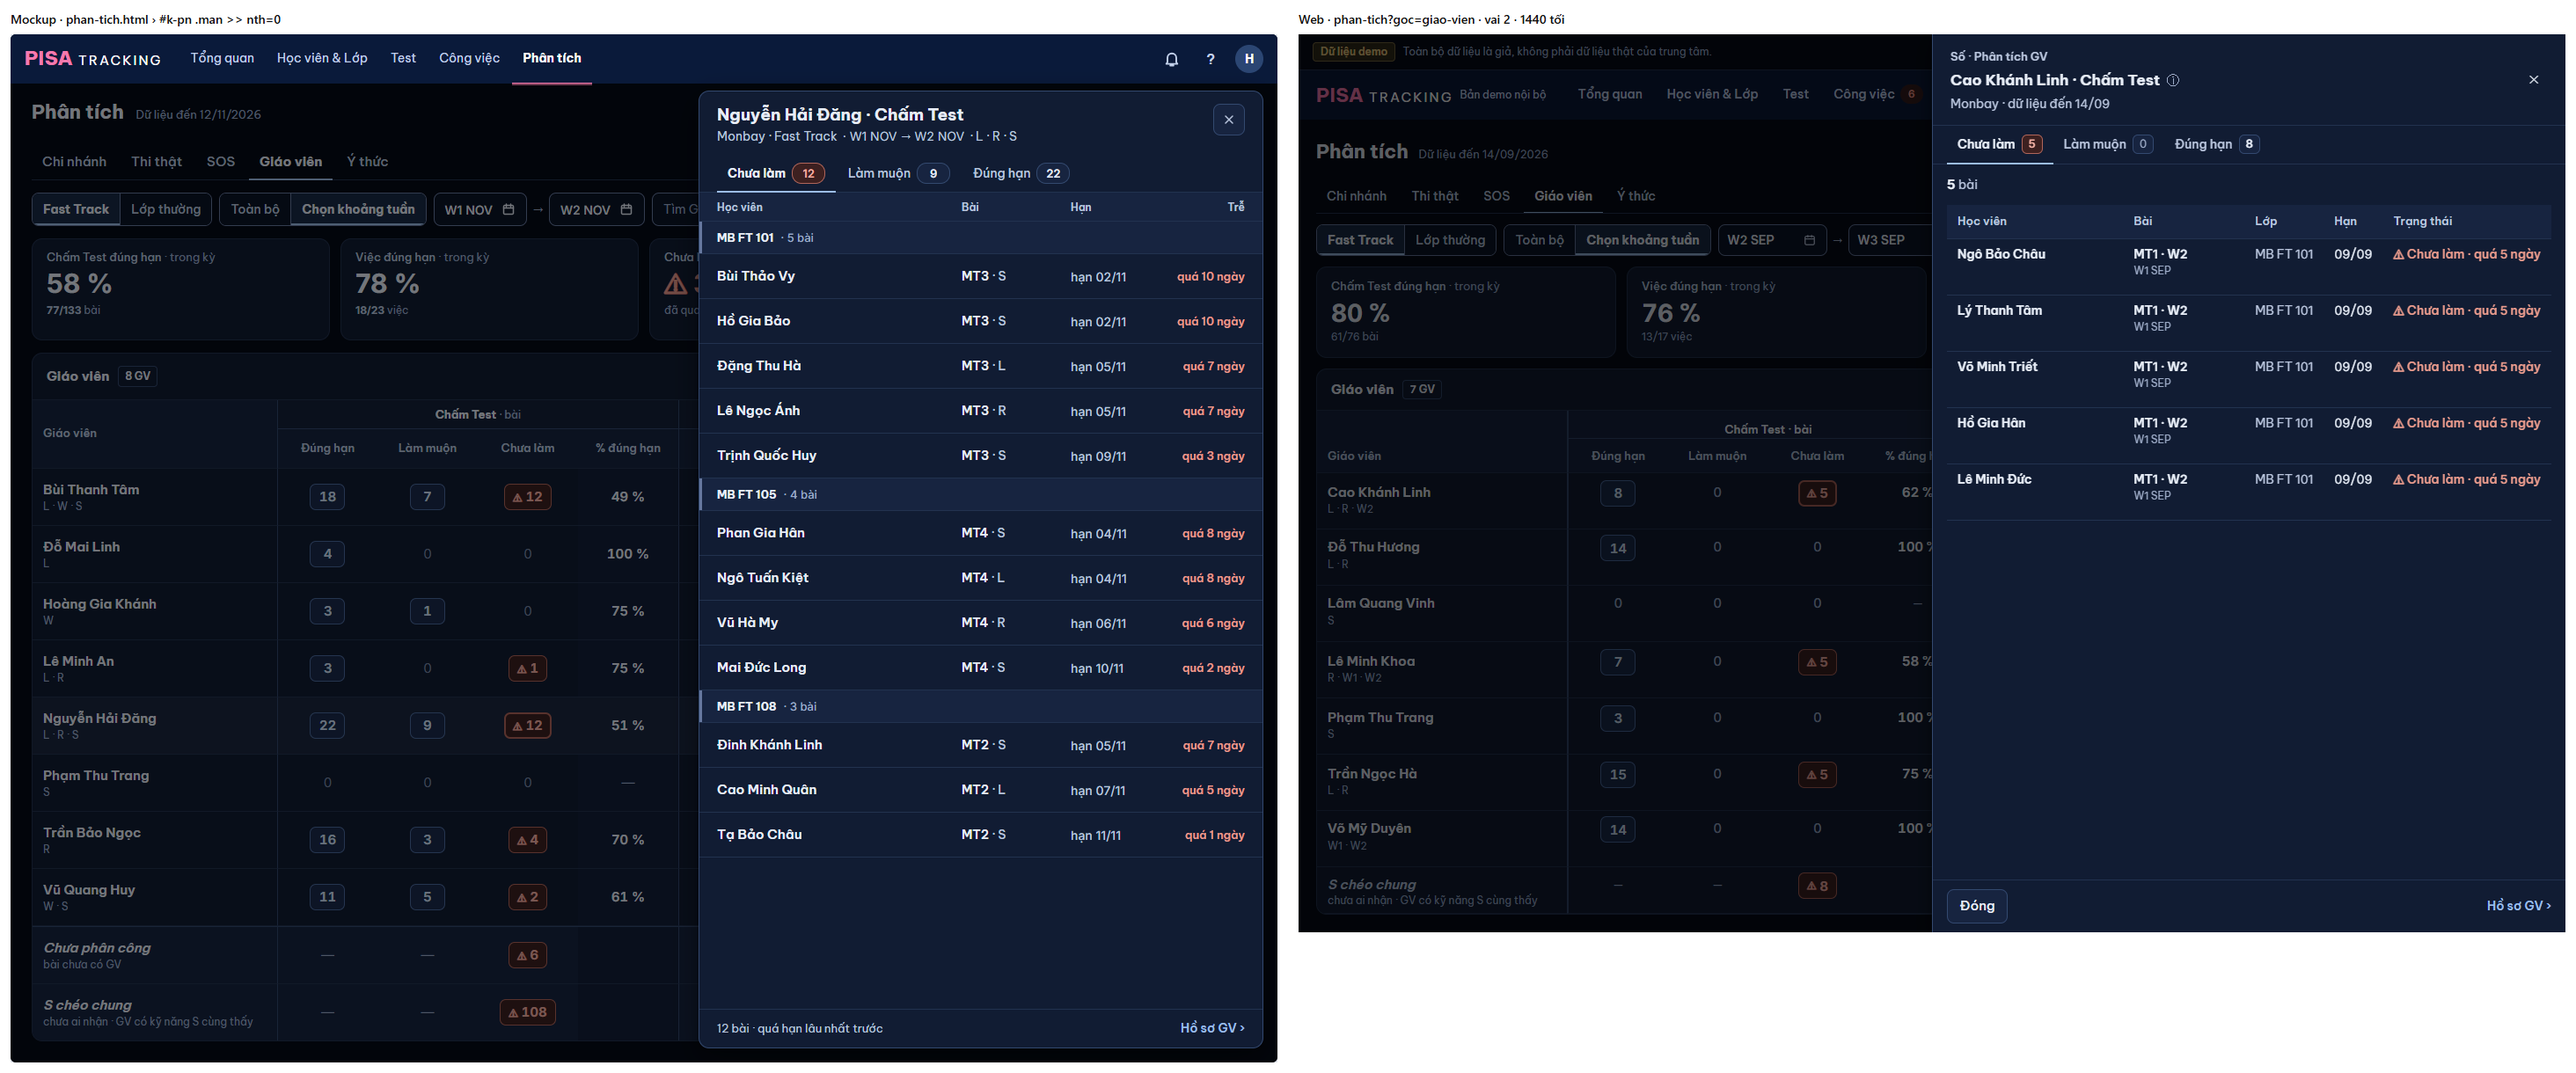
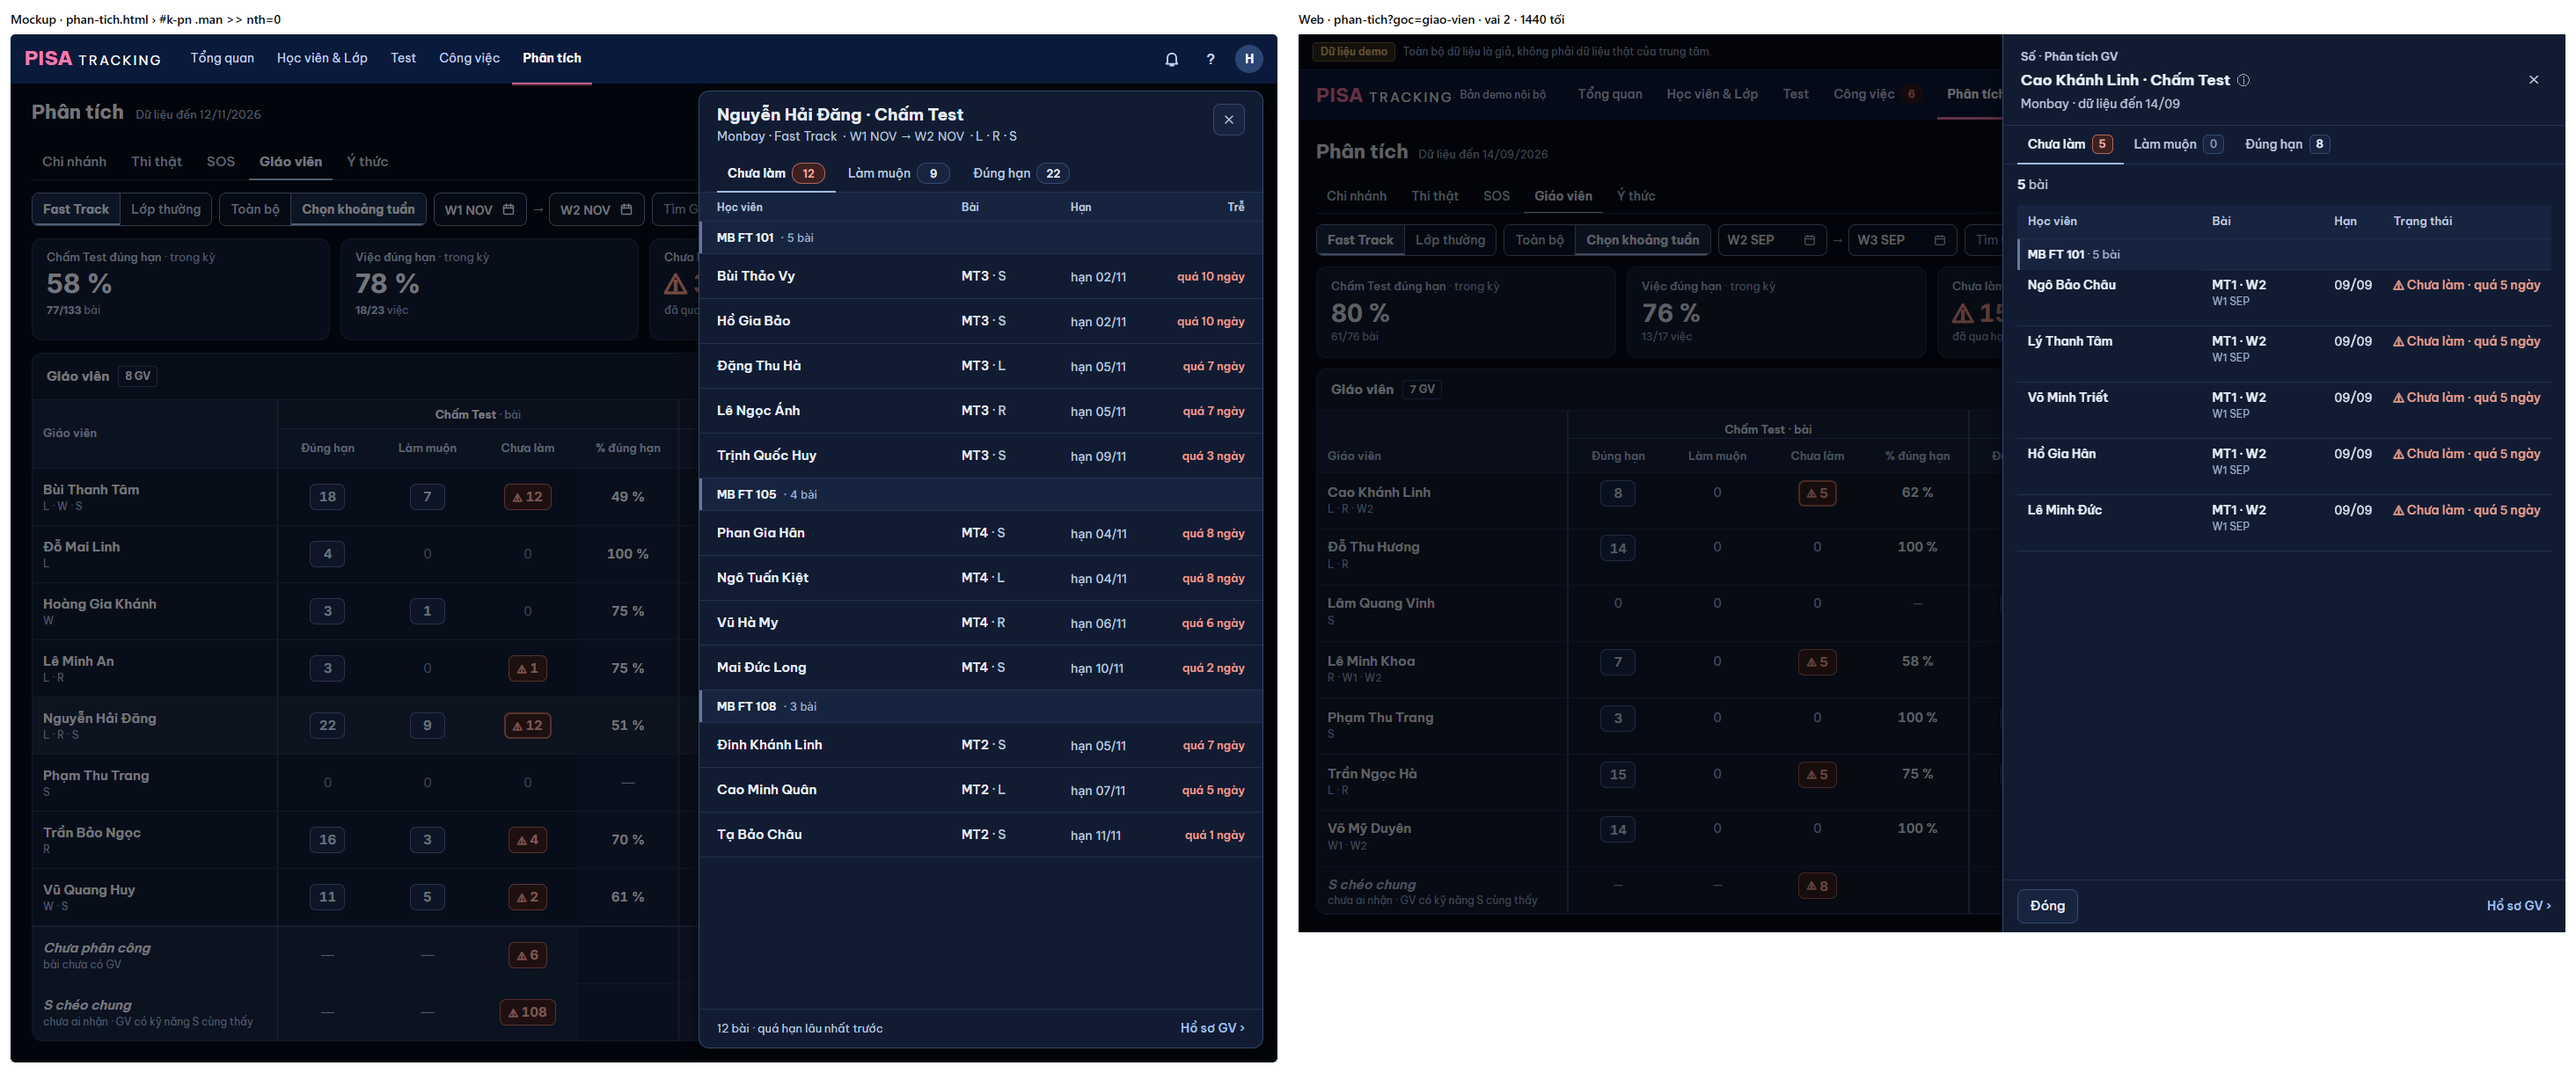
PT-a (PTA rà #1486): panel bài chấm nhóm theo lớp (nhóm theo bài quá hạn lâu nhất), bỏ cột Lớp, bậc rộng 640 (rong="so"); thẻ 375 lấy đúng cột Bài

Changed region(s): [[0.7459, 0.0311, 0.9945, 0.8721]]

diff --git a/web/src/ui/BangLuotPanel.tsx b/web/src/ui/BangLuotPanel.tsx
@@ -461,11 +461,27 @@ export function BangLuotPanel({ tieuDe, loai = t('Số · Test + SOS'), data, lo
   const phuVc = (h: HVc, c: DinhNghiaCot) => (c.key === 'viec'
     ? ([!laBai && nhieuLoai ? dich(TAB_VIEC_HAN_LABEL[h.tab]) : null, h.phu ? dich(h.phu) : null, h.chiNhanh ?? null, h.pcNhapSau ? t('phân công nhập sau') : null].filter(Boolean).join(' · ') || null)
     : c.key === 'han' ? (h.hanGoc ? t('hạn gốc {ngay}', { ngay: ddmm(h.hanGoc) }) : null) : c.key === 'tt' ? ngayLam(h) : null);
+  const COT_VIEC = cotVc.find((c) => c.key === 'viec')!;
+  /*
+   * PT-a (mockup v19 khung 2a, PTA rà #1486): panel BÀI chấm chia theo lớp ("MB FT 101 · 5 bài") — bỏ cột Lớp. Nhóm theo thứ tự xuất hiện: máy chủ đã xếp quá hạn
+   * lâu nhất trước → nhóm đầu là nhóm có bài quá hạn lâu nhất; trong nhóm giữ thứ tự đó. Dòng nhóm là dòng giả của `Bang` (`hang-nhom-lop`, không bấm).
+   */
+  type NhomLop = { nhomLop: string; n: number; id: string };
+  type DongVc = HVc | NhomLop;
+  const laNhom = (h: DongVc): h is NhomLop => 'nhomLop' in h;
+  const theoLop = (ds: HVc[]): DongVc[] => {
+    if (!laBai) return ds;
+    const m = new Map<string, HVc[]>();
+    for (const h of ds) { const k = h.lop?.ma ?? '—'; (m.get(k) ?? m.set(k, []).get(k)!).push(h); }
+    return [...m].flatMap(([lop, xs]): DongVc[] => [{ nhomLop: lop, n: xs.length, id: `nhom:${lop}` }, ...xs]);
+  };
+  const cotVcHien = laBai ? cotVc.filter((c) => c.key !== 'lop') : cotVc;
+  const nhanNhom = (h: NhomLop) => <span className="whitespace-nowrap text-[13px] font-bold text-[color:var(--text)]">{h.nhomLop} <span className="font-medium text-faint">· {t('{n} bài', { n: h.n })}</span></span>;
   const theVc = (h: HVc) => (
     <div className="grid gap-1">
-      <div className="flex items-baseline gap-2 text-[15px]">{oVc(h, cotVc[0])}<span className="ml-auto whitespace-nowrap text-[14px]">{ttVc(h)}</span></div>
+      <div className="flex items-baseline gap-2 text-[15px]">{oVc(h, COT_VIEC)}<span className="ml-auto whitespace-nowrap text-[14px]">{ttVc(h)}</span></div>
       {(h.em || h.lop) && <div className="text-[14px]">{h.em && lkHv(h.em.id, h.em.ten)}{h.em && h.lop && ' · '}{h.lop && lkLop(h.lop.id, h.lop.ma)}</div>}
-      <div className="text-[13px] text-dim">{t('Hạn')} {ddmm(h.han)}{h.hanGoc && <> ({t('hạn gốc {ngay}', { ngay: ddmm(h.hanGoc) })})</>}{h.ngayXong && <> · {ngayLam(h)}</>}{phuVc(h, cotVc[0]) && <> · {phuVc(h, cotVc[0])}</>}</div>
+      <div className="text-[13px] text-dim">{t('Hạn')} {ddmm(h.han)}{h.hanGoc && <> ({t('hạn gốc {ngay}', { ngay: ddmm(h.hanGoc) })})</>}{h.ngayXong && <> · {ngayLam(h)}</>}{phuVc(h, COT_VIEC) && <> · {phuVc(h, COT_VIEC)}</>}</div>
     </div>
   );
 
@@ -481,7 +497,7 @@ export function BangLuotPanel({ tieuDe, loai = t('Số · Test + SOS'), data, lo
     bt && data?.nguong != null ? t('đạt từ {n} % mỗi môn', { n: data.nguong }) : null, vpk && tatV.length ? t('mới nhất trước') : null,
     tg ? t('so mốc MT trước') : t('dữ liệu đến {ngay}', { ngay: ngay(homNay).slice(0, 5) }), tt && /^W[12]$/.test(knNhan ?? '') ? t('{kn} tính nửa W', { kn: knNhan! }) : null].filter(Boolean).join(' · ');
   return (
-    <KhungPanel tieuDe={tieuDe} rong={vk ? 'rong' : 'bang'} onDong={onDong} loai={loai} dau={{ dong2: [dong2],
+    <KhungPanel tieuDe={tieuDe} rong={vk && laBai ? 'so' : vk ? 'rong' : 'bang'} onDong={onDong} loai={loai} dau={{ dong2: [dong2],
       /* BO-CHU-THICH (chủ SP 07/11): "Cách tính" là ⓘ cuối dòng tiêu đề như `NganDanhSach` — không còn khối chữ cuối panel. */
       tieu: data?.cachTinh ? <><span className="min-w-0">{tieuDe}</span><NutLuat label={t('Cách tính')}>{dich(data.cachTinh)}</NutLuat></> : undefined }} chan={{ huy: { nhan: t('Đóng'), onClick: onDong },
         /* PT-a (mockup v19 khung 2a): panel sổ nghĩa vụ của một GV → "Hồ sơ GV ›" (đổi trang) ở chân. */
@@ -531,9 +547,11 @@ export function BangLuotPanel({ tieuDe, loai = t('Số · Test + SOS'), data, lo
                   return (
                     <section key={String(chung)} className="grid gap-1.5" aria-label={nhom ?? tieuDe}>
                       {nhom && <h3 className="m-0 text-[14px] font-semibold text-dim">{nhom} <span className="tabular-nums">{tatVc.filter((h) => !!h.sChung === chung).length}</span></h3>}
-                      {hang.length || !nhom ? <Bang deu day ten={nhom ? `${tieuDe} · ${nhom}` : tieuDe} cot={cotVc} hang={hang} khoa={(h) => h.id} oCua={oVc} phuCua={phuVc} khung={false} theRieng={theVc}
+                      {hang.length || !nhom ? <Bang<DongVc> deu day ten={nhom ? `${tieuDe} · ${nhom}` : tieuDe} cot={cotVcHien} hang={theoLop(hang)} khoa={(h) => h.id}
+                          oCua={(h, c) => (laNhom(h) ? (c.key === 'ten' ? nhanNhom(h) : null) : oVc(h, c))} phuCua={(h, c) => (laNhom(h) ? null : phuVc(h, c))}
+                          lopHang={(h) => (laNhom(h) ? 'hang-nhom-lop' : '')} khung={false} theRieng={(h) => (laNhom(h) ? nhanNhom(h) : theVc(h))}
                           /* KIEM-TAY-1011 (4): bấm cả dòng = bấm tên việc / bài (cùng `href`, mở đúng chỗ chấm / làm việc); link em, lớp giữ đích riêng. */
-                          onHang={(h) => navigate(h.href)} />
+                          onHang={(h) => { if (!laNhom(h)) navigate(h.href); }} />
                         : <p className="m-0 text-[14px] text-dim">{t('Không có bài chưa làm.')}</p>}
                     </section>
                   );

diff --git a/web/src/ui/KhungPanel.tsx b/web/src/ui/KhungPanel.tsx
@@ -188,7 +188,7 @@ export function KhungPanel({ tieuDe, hocVien, lop, rong: rongRieng, tabs, vungTa
   longTrong?: boolean;
   /** `toan`: lưới nhập hàng loạt nhiều cột (Thêm học viên) — rộng theo màn tới 1440px, không ép 10 cột vào ngăn hẹp. */
   /** `vua` 1180 px: panel bàn giao (mockup v11 — bảng hai cột không trải hết 1440). */
-  rong?: 'hep' | 'rong' | 'vua' | 'toan' | /** PT-PANEL (mockup v13 A1) + chủ SP 09/11: panel bảng số rộng 1040 — cột ngắn co theo nội dung, cột tên / việc thoải mái, không cắt chữ. */ 'bang';
+  rong?: 'hep' | 'rong' | 'vua' | 'toan' | /** PT-a (mockup v19 khung 2a): panel sổ nghĩa vụ bài chấm của một GV — 640. */ 'so' | /** PT-PANEL (mockup v13 A1) + chủ SP 09/11: panel bảng số rộng 1040 — cột ngắn co theo nội dung, cột tên / việc thoải mái, không cắt chữ. */ 'bang';
   tabs?: ReactNode; ngCanh?: ReactNode;
   /** DON-NHO-3 (TAB-A11Y): thân cuộn là vùng của `tabs` (`role="tabpanel"`, id = `panelId` của HangTab) — chỉ gắn thuộc tính, không bọc thêm (Khoi `first:` giữ khoảng cách). */
   vungTab?: { id: string; nhan: string };
@@ -446,7 +446,7 @@ export function KhungPanel({ tieuDe, hocVien, lop, rong: rongRieng, tabs, vungTa
     /* T21: `bottom` = phần bàn phím ảo che (`useBanPhim` — đo một nơi ở `App`, `ui/banPhim.ts`) — panel co lên, chân lưu nằm ngay trên bàn phím. */
     <div className={`fixed inset-0 !mt-0 ${z} flex justify-end`} style={{ bottom: 'var(--ban-phim, 0px)' }} role="dialog" aria-modal="true" aria-label={tieuDe}>
       <div className="absolute inset-0 bg-black/60" onClick={dong} />
-      <div ref={khung} tabIndex={-1} className={`relative flex h-full w-full flex-col rounded-none border-l shadow-2xl -outline-offset-2 ${rong === 'toan' ? 'max-w-[1440px]' : rong === 'vua' ? 'max-w-[1180px]' : rong === 'rong' ? 'sm:w-[720px]' : rong === 'bang' ? 'sm:w-[1040px] sm:max-w-full' : 'sm:w-[480px]'}`}
+      <div ref={khung} tabIndex={-1} className={`relative flex h-full w-full flex-col rounded-none border-l shadow-2xl -outline-offset-2 ${rong === 'toan' ? 'max-w-[1440px]' : rong === 'vua' ? 'max-w-[1180px]' : rong === 'rong' ? 'sm:w-[720px]' : rong === 'bang' ? 'sm:w-[1040px] sm:max-w-full' : rong === 'so' ? 'sm:w-[640px]' : 'sm:w-[480px]'}`}
         style={{ background: 'var(--surface)', borderColor: 'var(--line-strong)' }}>
         {voi(than)}
       </div>

diff --git a/web/src/index.css b/web/src/index.css
@@ -1248,6 +1248,11 @@
 /* Số lớn thẻ chỉ số (`DaiChiSo` `.chi-so-gt`): cùng hộp, ôm cỡ số. */
 .o-so-hop :is(.chi-so-gt .so-bam, .so-bam.so-chinh) { height: auto; padding: 2px 10px 3px; border-radius: 9px; font-weight: 700; line-height: 1.2; }
 /* Cặp hộp % + phân số mờ (`CapSo`): lưới hai cột — hộp căn phải, phân số căn trái, mọi dòng thẳng nhau. */
+/* PT-a (mockup v19 khung 2a): dòng nhóm lớp trong panel bài chấm (`BangLuotPanel`) — nền hàng lớn, vạch trái, chữ tràn qua ô trống bên phải, không bấm. */
+.bang tr.hang-nhom-lop { background: var(--hang-lon-bg); cursor: default; }
+.bang tr.hang-nhom-lop > td { height: 34px; padding-top: 0; padding-bottom: 0; background: transparent !important; background-image: none !important; }
+.bang tr.hang-nhom-lop > td:first-child { overflow: visible; box-shadow: inset 3px 0 0 var(--hang-lon-vach); }
+article.hang-nhom-lop { background: var(--hang-lon-bg); box-shadow: inset 3px 0 0 var(--hang-lon-vach); padding-top: 6px; padding-bottom: 6px; }
 .cap-so { display: inline-grid; grid-template-columns: 1fr 1fr; align-items: center; gap: 6px; width: 100%; }
 .cap-so > :first-child { justify-self: end; }
 .cap-so > :last-child { justify-self: start; font-size: 13px; font-weight: 500; color: var(--text-faint); font-variant-numeric: tabular-nums; white-space: nowrap; }

diff --git a/server/src/tests/prKiemTay1011.tests.ts b/server/src/tests/prKiemTay1011.tests.ts
@@ -64,7 +64,8 @@ export async function runPrKiemTay1011Tests(t: YThucTestKit) {
     const hop = docSach('web/src/modules/fasttrack/HopNhapDiem.tsx');
     assert(/cell\.noShow\?\.state === 'khong-du-thi'/.test(hop) && /boKhongDuThi && !daLuu/.test(hop), 'hộp thiếu Bỏ vắng cho ô Không dự thi');
     assert(/r\?\.boKhongDuThi[\s\S]{0,400}Hoàn tác/.test(docSach('web/src/modules/fasttrack/ScoreEntry.tsx')), 'thiếu toast Đã bỏ vắng · Hoàn tác');
-    assert(/onHang=\{\(h\) => navigate\(h\.href\)\}/.test(docSach('web/src/ui/BangLuotPanel.tsx')), 'hàng sổ nghĩa vụ không bấm được');
+    /* PT-a (mockup v19 khung 2a): dòng nhóm lớp không bấm — hàng bài / việc vẫn mở `href`. */
+    assert(/onHang=\{\(h\) => \{ if \(!laNhom\(h\)\) navigate\(h\.href\); \}\}/.test(docSach('web/src/ui/BangLuotPanel.tsx')), 'hàng sổ nghĩa vụ không bấm được');
     assert(/tuConTuongTac/.test(docSach('web/src/ui/Bang.tsx')), 'Bang: bấm link trong hàng sẽ mở hàng lần nữa');
     assert(!/<details className="contents">/.test(docSach('web/src/modules/test/KeHoachTestTab.tsx')), 'Lọc 375 còn details.contents');
   });

diff --git a/docs/anh/pt-a/khop-khac.md b/docs/anh/pt-a/khop-khac.md
@@ -22,17 +22,17 @@ Mockup dữ liệu 12/11, seed 14/09 → số khác, so bố cục / dáng.
 | 1a | Hàng chân "Chưa phân công" + "S chéo chung" — số ở cột Chưa làm, cột khác "—", cột % trống | cap-1440-gv | KHỚP (seed không có bài chưa phân công → web chỉ hiện S chéo chung) |
 | 1a | "Thi thật theo GV ›", ⓘ, Tìm GV, Xuất Excel | cap-1440-gv | KHỚP |
 | 2a | Panel tiêu đề "Tên GV · Chấm Test", tab Chưa làm · Làm muộn · Đúng hạn có ô đếm (Chưa làm đỏ), mở đúng tab của ô bấm | cap-1440-panel | KHỚP |
-| 2a | Cột Học viên đầu dòng → Bài → Hạn → trạng thái quá hạn đỏ | cap-1440-panel | KHỚP |
+| 2a | Cột Học viên đầu dòng → Bài → Hạn → trạng thái quá hạn đỏ; bỏ cột Lớp | cap-1440-panel | KHỚP |
 | 2a | Chân "Hồ sơ GV ›" | cap-1440-panel | KHỚP (giữ thêm nút Đóng — thao tác cũ) |
-| 2a | Panel rộng 720 (mockup 640) | cap-1440-panel | KHÁC (GIỮ): bậc rộng `rong` có sẵn của `KhungPanel` gần nhất; trước là 1040 |
-| 2a | Nhóm theo lớp ("MB FT 101 · 5 bài") | cap-1440-panel | KHÁC (GIỮ): giữ cột Lớp + thứ tự quá hạn lâu nhất toàn panel (nhóm lớp đẩy bài quá hạn lâu xuống dưới) |
+| 2a | Panel rộng 640 (bậc mới `rong="so"` của `KhungPanel`, chỉ panel bài chấm; panel việc khác giữ 720, bảng số 1040) | cap-1440-panel | KHỚP |
+| 2a | Nhóm theo lớp ("MB FT 101 · 5 bài"): nhóm xếp theo bài quá hạn lâu nhất của nhóm, trong nhóm quá hạn lâu nhất trước (PTA rà #1486) | cap-1440-panel | KHỚP |
 | 2a | Dòng "loại" nhỏ "Số · Phân tích GV" + "5 bài" trên bảng | cap-1440-panel | KHÁC (GIỮ): mẫu đầu panel chung `KhungPanel` / `BangLuotPanel` mọi panel số |
 | 2b–2d | Đang tải (khung xám) · rỗng · lỗi + Thử lại | — | KHỚP theo mã (`Skeleton`, `ErrorState onRetry` của `BangLuotPanel` không đổi) |
 | 7a | Thẻ 375: tên · môn, nhóm Chấm Test / Việc nhãn trên hộp, "n % đúng hạn" cuối tiêu đề nhóm, Đạt kỳ vọng hộp + phân số; Chưa phân công / S chéo chung một dòng | cap-375-gv | KHỚP |
 | 7a | Tìm GV + Xuất Excel một hàng | cap-375-gv | KHỚP |
 | 7a | Dải thẻ 375: web 4 thẻ (mockup vẽ 2) | cap-375-gv | KHÁC (GIỮ): bốn số đã duyệt V2, không bỏ |
 
-Đếm: 23 dòng · 19 KHỚP · 4 KHÁC (GIỮ mẫu chung / thao tác cũ) → 19 / 23 = **83 % khớp tuyệt đối; 100 % tính KHÁC (GIỮ)**. Hình ảnh (hộp, màu, cỡ, hàng, cột) theo mockup.
+Đếm: 23 dòng · 21 KHỚP · 2 KHÁC (GIỮ: đầu panel chung `KhungPanel`, 375 giữ 4 thẻ số) → 21 / 23 = **91 % khớp tuyệt đối**; 100 % tính KHÁC (GIỮ). Hình ảnh (hộp, màu, cỡ, hàng, cột) theo mockup.
 
 ## Thao tác TRƯỚC → SAU
 
@@ -44,6 +44,7 @@ Mockup dữ liệu 12/11, seed 14/09 → số khác, so bố cục / dáng.
 | % đúng hạn | chữ nhỏ dưới ô Đúng hạn | cột riêng (chỉ đọc) |
 | Panel GV: tab Chưa làm · Làm muộn · Đúng hạn, mở đúng tab (#1483) | có | GIỮ; số tab trong ô đếm |
 | Panel GV → hồ sơ GV | (không có) | "Hồ sơ GV ›" ở chân |
+| Panel bài chấm: cột Lớp | cột riêng mỗi dòng | dải nhóm lớp ("MB FT 101 · 5 bài"); link lớp vẫn ở thẻ 375 / hồ sơ em |
 | Tìm GV · Xuất Excel · Thi thật theo GV › · ⓘ · ▸ tách chi nhánh (Tất cả) · phân trang · Đóng / Esc | có | GIỮ |
 
 Mất thao tác: không.
